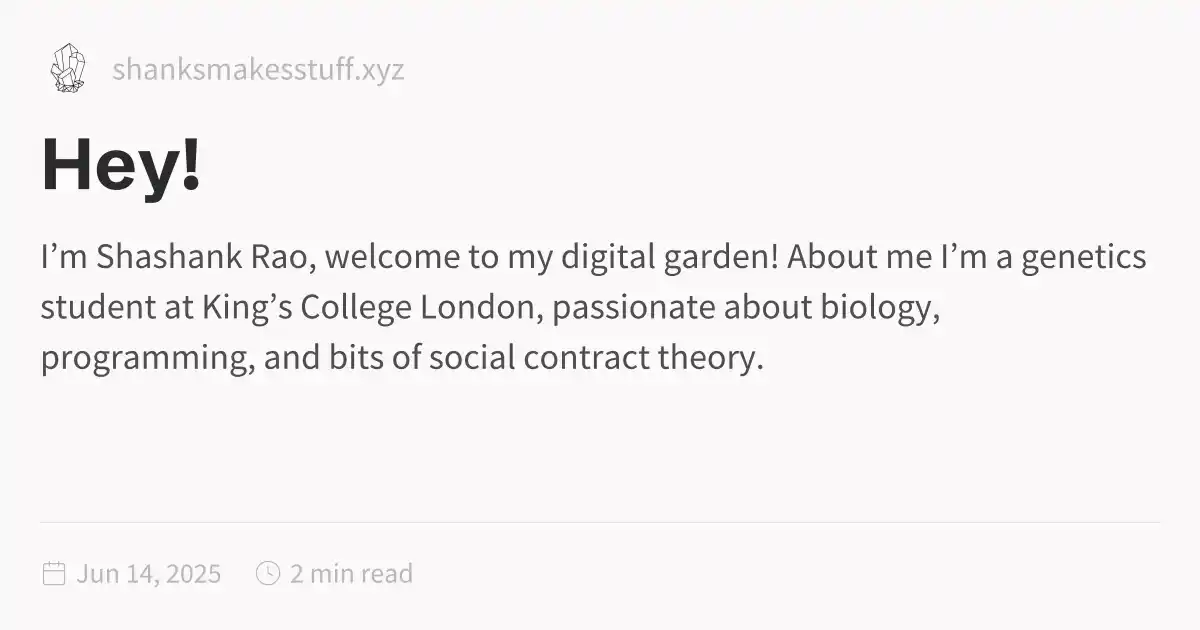
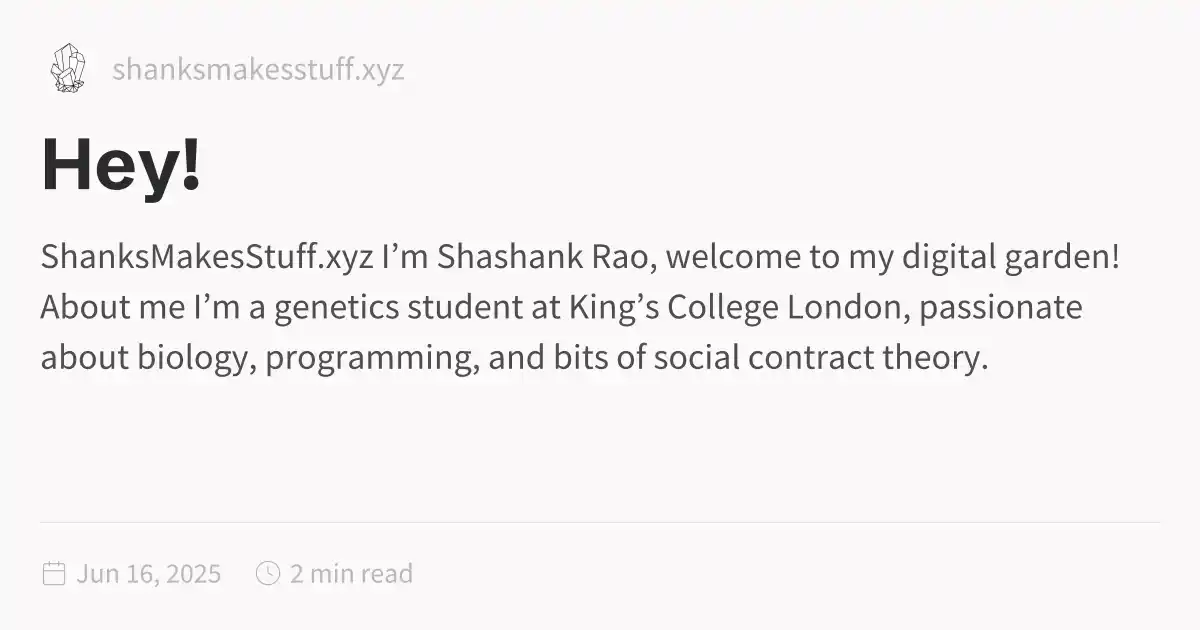
2025-06-16_1422

Changed region(s): [[0.0308, 0.3921, 0.9558, 0.5127], [0.0308, 0.5429, 0.8325, 0.6032]]

diff --git a/Hey!.html b/Hey!.html
@@ -1,5 +1,5 @@
 <!DOCTYPE html>
-<html lang="en"><head><title>Hey!</title><meta charset="utf-8"/><link rel="preconnect" href="https://fonts.googleapis.com"/><link rel="preconnect" href="https://fonts.gstatic.com"/><link rel="stylesheet" href="https://fonts.googleapis.com/css2?family=Schibsted Grotesk:wght@400;700&amp;family=Source Sans Pro:ital,wght@0,400;0,600;1,400;1,600&amp;family=IBM Plex Mono:wght@400;600&amp;display=swap"/><link rel="preconnect" href="https://cdnjs.cloudflare.com" crossorigin="anonymous"/><meta name="viewport" content="width=device-width, initial-scale=1.0"/><meta name="og:site_name" content="ShanksMakesStuff"/><meta property="og:title" content="Hey!"/><meta property="og:type" content="website"/><meta name="twitter:card" content="summary_large_image"/><meta name="twitter:title" content="Hey!"/><meta name="twitter:description" content="I’m Shashank Rao, welcome to my digital garden! About me I’m a genetics student at King’s College London, passionate about biology, programming, and bits of social contract theory."/><meta property="og:description" content="I’m Shashank Rao, welcome to my digital garden! About me I’m a genetics student at King’s College London, passionate about biology, programming, and bits of social contract theory."/><meta property="og:image:alt" content="I’m Shashank Rao, welcome to my digital garden! About me I’m a genetics student at King’s College London, passionate about biology, programming, and bits of social contract theory."/><meta property="twitter:domain" content="shanksmakesstuff.xyz"/><meta property="og:url" content="https://shanksmakesstuff.xyz/Hey!"/><meta property="twitter:url" content="https://shanksmakesstuff.xyz/Hey!"/><link rel="icon" href="./static/icon.png"/><meta name="description" content="I’m Shashank Rao, welcome to my digital garden! About me I’m a genetics student at King’s College London, passionate about biology, programming, and bits of social contract theory."/><meta name="generator" content="Quartz"/><link href="./index.css" rel="stylesheet" type="text/css" spa-preserve/><style>.expand-button {
+<html lang="en"><head><title>Hey!</title><meta charset="utf-8"/><link rel="preconnect" href="https://fonts.googleapis.com"/><link rel="preconnect" href="https://fonts.gstatic.com"/><link rel="stylesheet" href="https://fonts.googleapis.com/css2?family=Schibsted Grotesk:wght@400;700&amp;family=Source Sans Pro:ital,wght@0,400;0,600;1,400;1,600&amp;family=IBM Plex Mono:wght@400;600&amp;display=swap"/><link rel="preconnect" href="https://cdnjs.cloudflare.com" crossorigin="anonymous"/><meta name="viewport" content="width=device-width, initial-scale=1.0"/><meta name="og:site_name" content="ShanksMakesStuff"/><meta property="og:title" content="Hey!"/><meta property="og:type" content="website"/><meta name="twitter:card" content="summary_large_image"/><meta name="twitter:title" content="Hey!"/><meta name="twitter:description" content="ShanksMakesStuff.xyz I’m Shashank Rao, welcome to my digital garden! About me I’m a genetics student at King’s College London, passionate about biology, programming, and bits of social contract theory."/><meta property="og:description" content="ShanksMakesStuff.xyz I’m Shashank Rao, welcome to my digital garden! About me I’m a genetics student at King’s College London, passionate about biology, programming, and bits of social contract theory."/><meta property="og:image:alt" content="ShanksMakesStuff.xyz I’m Shashank Rao, welcome to my digital garden! About me I’m a genetics student at King’s College London, passionate about biology, programming, and bits of social contract theory."/><meta property="twitter:domain" content="shanksmakesstuff.xyz"/><meta property="og:url" content="https://shanksmakesstuff.xyz/Hey!"/><meta property="twitter:url" content="https://shanksmakesstuff.xyz/Hey!"/><link rel="icon" href="./static/icon.png"/><meta name="description" content="ShanksMakesStuff.xyz I’m Shashank Rao, welcome to my digital garden! About me I’m a genetics student at King’s College London, passionate about biology, programming, and bits of social contract theory."/><meta name="generator" content="Quartz"/><link href="./index.css" rel="stylesheet" type="text/css" spa-preserve/><style>.expand-button {
   position: absolute;
   display: flex;
   float: right;
@@ -116,7 +116,8 @@ pre:hover > .expand-button {
   padding: 0 12px;
   font-size: 14px;
 }
[2 lines of base64/hex data omitted]
+<p>I’m Shashank Rao, welcome to my digital garden!</p>
 <h2 id="about-me">About me<a role="anchor" aria-hidden="true" tabindex="-1" data-no-popover="true" href="#about-me" class="internal"><svg width="18" height="18" viewBox="0 0 24 24" fill="none" stroke="currentColor" stroke-width="2" stroke-linecap="round" stroke-linejoin="round"><path d="M10 13a5 5 0 0 0 7.54.54l3-3a5 5 0 0 0-7.07-7.07l-1.72 1.71"></path><path d="M14 11a5 5 0 0 0-7.54-.54l-3 3a5 5 0 0 0 7.07 7.07l1.71-1.71"></path></svg></a></h2>
 <p>I’m a genetics student at <a href="https://www.kcl.ac.uk/" class="external">King’s College London<svg aria-hidden="true" class="external-icon" style="max-width:0.8em;max-height:0.8em;" viewBox="0 0 512 512"><path d="M320 0H288V64h32 82.7L201.4 265.4 178.7 288 224 333.3l22.6-22.6L448 109.3V192v32h64V192 32 0H480 320zM32 32H0V64 480v32H32 456h32V480 352 320H424v32 96H64V96h96 32V32H160 32z"></path></svg></a>, passionate about biology, programming, and bits of social contract theory. I play the guitar and write stories in my free time - I hope you enjoy my projects and musings!</p>
 <h2 id="projects">Projects<a role="anchor" aria-hidden="true" tabindex="-1" data-no-popover="true" href="#projects" class="internal"><svg width="18" height="18" viewBox="0 0 24 24" fill="none" stroke="currentColor" stroke-width="2" stroke-linecap="round" stroke-linejoin="round"><path d="M10 13a5 5 0 0 0 7.54.54l3-3a5 5 0 0 0-7.07-7.07l-1.72 1.71"></path><path d="M14 11a5 5 0 0 0-7.54-.54l-3 3a5 5 0 0 0 7.07 7.07l1.71-1.71"></path></svg></a></h2>
